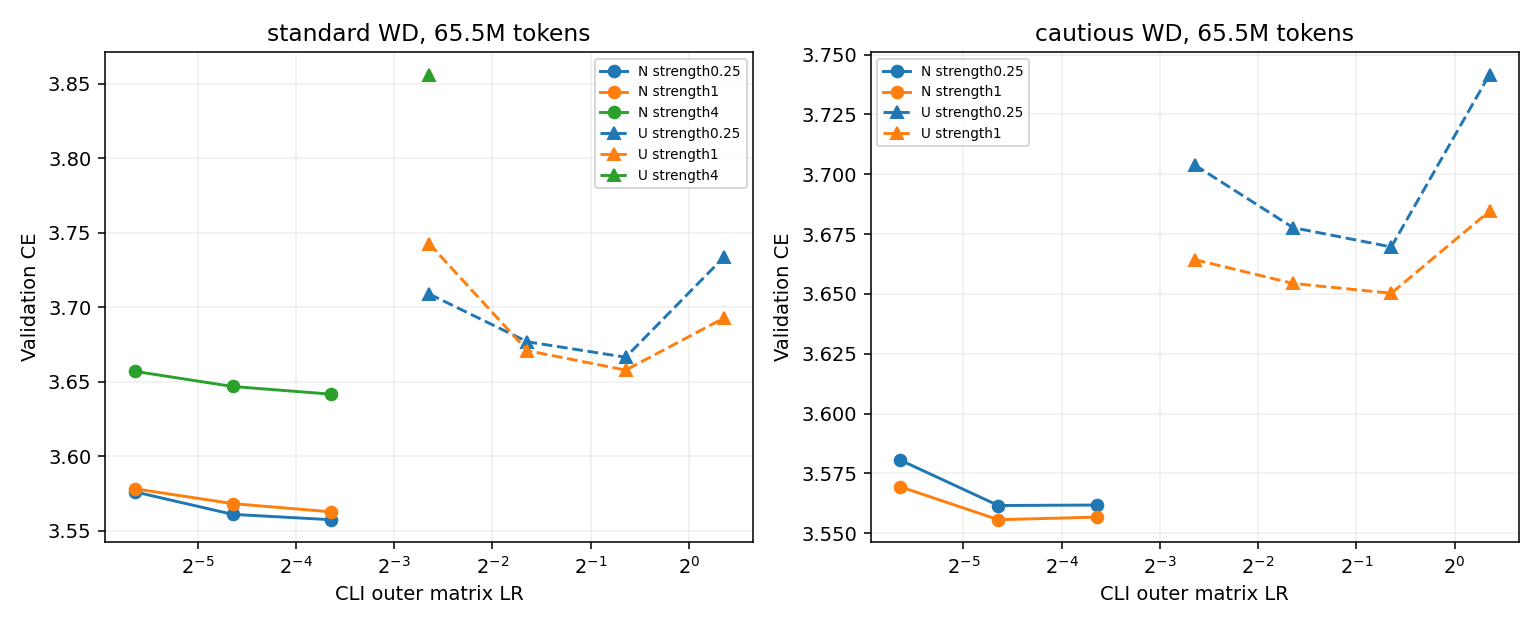
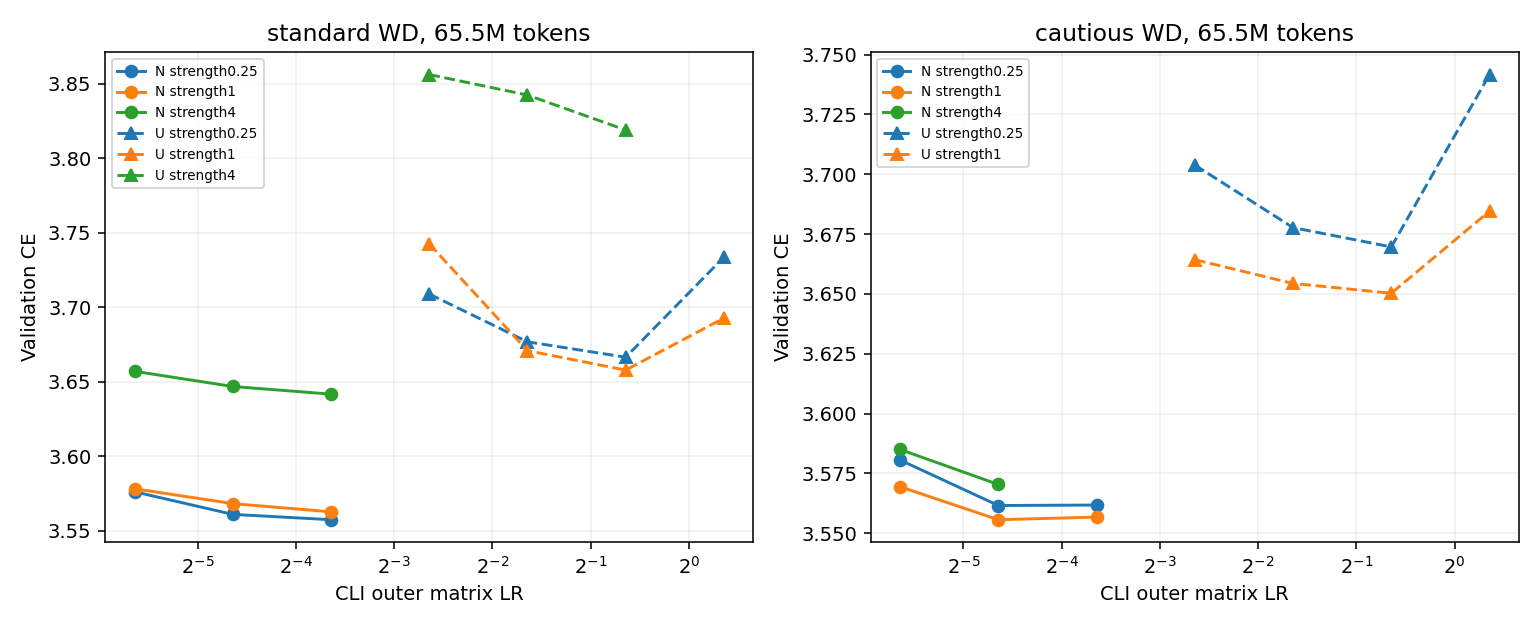
Update live Muon experiment results

diff --git a/research/unnormalized_muon/RESULTS.md b/research/unnormalized_muon/RESULTS.md
@@ -127,10 +127,12 @@ One B300 per job. CE is token cross-entropy (nats); lower is better. Rows with d
 | um-wd-grid-2-0-norm-lr0p04 | Clean Native cooldown WD:standard(1.12) | 2000 | 0 | 0.04 | 3.646872 | 1.105549 | — | 119.10 |
 | um-wd-grid-2-0-norm-lr0p08 | Clean Native cooldown WD:standard(0.56) | 2000 | 0 | 0.08 | 3.641740 | 1.104011 | — | 114.78 |
 | um-wd-grid-2-0-unnorm-lr0p16 | Clean Unnormalized cooldown WD:standard(0.28) | 2000 | 0 | 0.16 | 3.856223 | 1.168961 | — | 132.42 |
+| um-wd-grid-2-0-unnorm-lr0p32 | Clean Unnormalized cooldown WD:standard(0.14) | 2000 | 0 | 0.32 | 3.842443 | 1.164750 | — | 128.86 |
+| um-wd-grid-2-0-unnorm-lr0p64 | Clean Unnormalized cooldown WD:standard(0.07) | 2000 | 0 | 0.64 | 3.818985 | 1.157711 | — | 129.55 |
 
 Review of um-fw-diagnostic-001: Compiled training f0 compared against functional candidate losses; vanishing-step mismatch2-4e-5 exceeded tolerance, leading to curvature1e186 and45 skipped steps. Replaced by paired functional reference and candidates; retain all645 measured forwards and GPUcost.
 
-Conservative charged/reserved total: 9.4961 / 30 B300 GPU-hours. Includes prior smoke/failed attempts and current maximum-duration reservations. Six-slot central queue; one B300 per run.
+Conservative charged/reserved total: 9.3285 / 30 B300 GPU-hours. Includes prior smoke/failed attempts and current maximum-duration reservations. Six-slot central queue; one B300 per run.
 
 CLEAN geometry disables row equilibration and NorMuon. Original clean runs use zero matrix decay; new WD runs explicitly label standard or cautious decay and their CLI coefficient. Same five Polar Express steps and Frobenius correction; scale by the per-matrix nonnegative FP32 inner product of the native Nesterov input with the NS/Frobenius direction. Shape scaling occurs once outside the scalar. Legacy rows retain production extras and must be compared separately. Constant schedule changes only matrix LR; auxiliary schedules and momentum remain matched.
 

diff --git a/research/unnormalized_muon/DETAILED_EVAL.md b/research/unnormalized_muon/DETAILED_EVAL.md
@@ -53,6 +53,10 @@ CLI lambda = 0.28*(0.04/CLI_eta)*strength matches nominal eta*lambda exposure ac
 | normalized | standard | 4 | 0.04 | 1.12 | 2000 | 3.646872 | 6.5236–13.047 |
 | normalized | standard | 4 | 0.08 | 0.56 | 2000 | 3.641740 | 6.5236–13.047 |
 | unnormalized | standard | 4 | 0.16 | 0.28 | 2000 | 3.856223 | 6.5236–13.047 |
+| unnormalized | standard | 4 | 0.32 | 0.14 | 2000 | 3.842443 | 6.5236–13.047 |
+| unnormalized | standard | 4 | 0.64 | 0.07 | 2000 | 3.818985 | 6.5236–13.047 |
+| normalized | cautious | 4 | 0.02 | 2.24 | 2000 | 3.585011 | 6.5236–13.047 |
+| normalized | cautious | 4 | 0.04 | 1.12 | 2000 | 3.570390 | 6.5236–13.047 |
 
 ## FW gap-based step and line search
 
